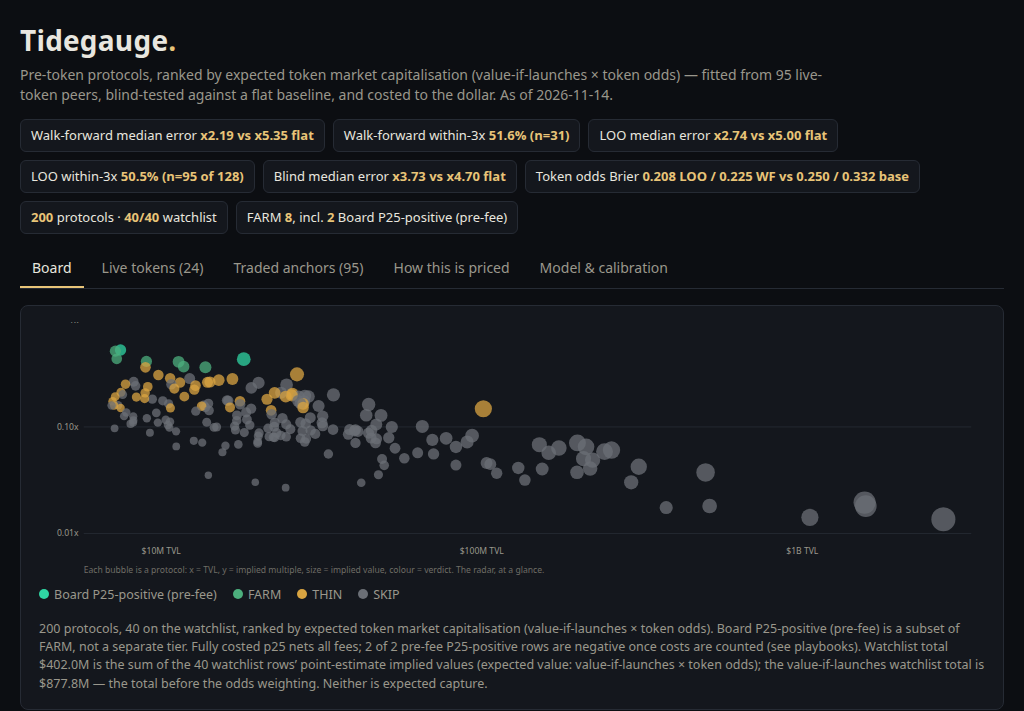
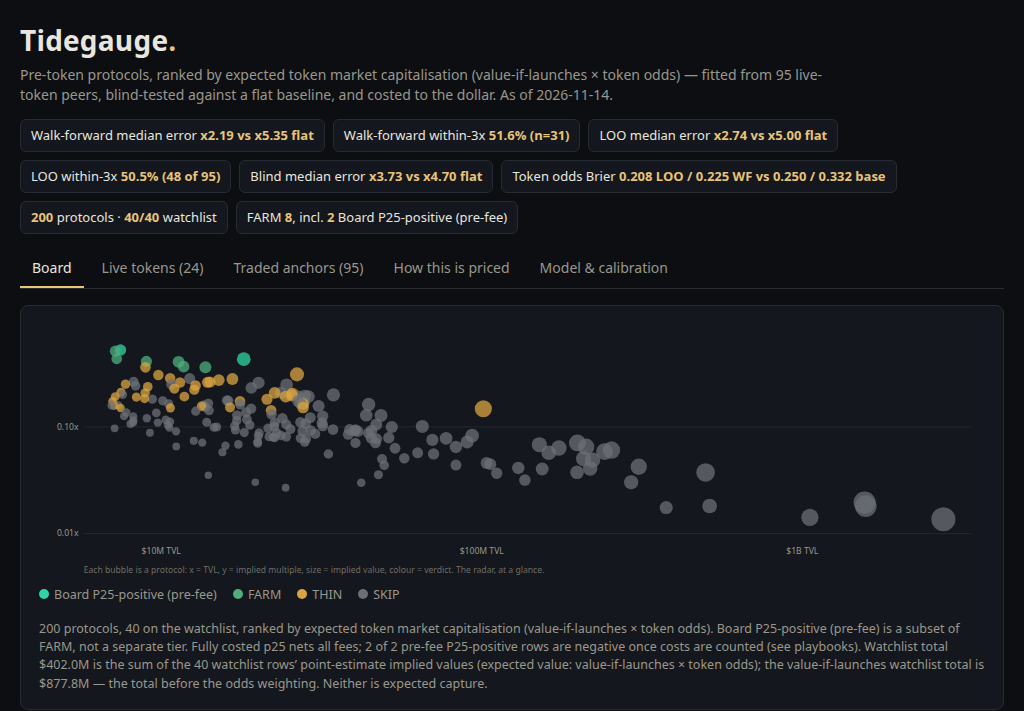
Fix round 3: range-honesty audit, badge denominators, clipped scatter tick
- Calibration tab gains a range-honesty audit table (LOO 52.6%/82.1%,
  blind 46.3%/81.1%, time-split 51.6%/74.2%, with n's), computed in
  bandCalibration via a true leave-one-out loop (seed 555000+i, own
  residual excluded) and appended last to the composite image 3.
- Badge now reads '48 of 95 peers with listing dates' (was 'n=95 of
  128'); KPI pill '(48 of 95)'. Stale '45% coverage blind' prose now
  reads the computed 46.3%.
- Bubble map skips out-of-range y-axis ticks: the 1.00x label sat
  above the panel and rendered as a '...' sliver (the judged artifact);
  ratioScatter tick fixed to '1.00x' as well.
- Harness 106/106. data.js differs from round-8 by 3 added LOO fields
  only (JSON-diff proven); board.json byte-identical; dossier 4/4.

Changed region(s): [[0.1562, 0.2166, 0.9062, 0.2785]]

diff --git a/dashboard/app.js b/dashboard/app.js
@@ -469,8 +469,12 @@
     });
     [-2, -1, 0].forEach(function (e) {
       var y = Y(e);
+      // A tick whose label would clip is not drawn at all: when every
+      // multiple is below 1 the 1.00x line sits above the panel, and its
+      // clipped label showed as a row of dots ("...") at thumbnail scale.
+      if (y < T + 8 || y > H - B) return;
       s += '<line x1="' + L + '" y1="' + y.toFixed(1) + '" x2="' + (W - R) + '" y2="' + y.toFixed(1) + '" stroke="#262b34"/>';
-      s += '<text x="' + (L - 6) + '" y="' + (y + 3).toFixed(1) + '" fill="#9a978c" font-size="10" text-anchor="end">' + Math.pow(10, e).toFixed(e === 0 ? 0 : 2) + 'x</text>';
+      s += '<text x="' + (L - 6) + '" y="' + (y + 3).toFixed(1) + '" fill="#9a978c" font-size="10" text-anchor="end">' + Math.pow(10, e).toFixed(2) + 'x</text>';
     });
     rows.forEach(function (r) {
       var rad = 3 + 11 * Math.sqrt(r.implied_value_usd / maxImp);
@@ -559,7 +563,7 @@
     logTicks(ylo, yhi).forEach(function (e) {
       var y = Y(e);
       var lab = Math.pow(10, e);
-      var lt = lab >= 1 ? lab.toFixed(0) + 'x' : lab.toFixed(2) + 'x';
+      var lt = lab.toFixed(2) + 'x';
       s += '<line x1="' + L + '" y1="' + y.toFixed(1) + '" x2="' + (W - R) + '" y2="' + y.toFixed(1) + '" stroke="#262b34"/>';
       s += '<text x="' + (L - 6) + '" y="' + (y + 3).toFixed(1) + '" fill="#9a978c" font-size="10" text-anchor="end">' + lt + '</text>';
     });
@@ -646,10 +650,11 @@
     var size = looRowNamed('size curve only');
     var looN = (v.peerCount !== null && v.peerCount !== undefined) ? v.peerCount : FIT.peerCount;
     var looU = fitUniverse() === null ? looN : fitUniverse();
+    var hits = DATA.peers.filter(function (p) { return p.oofWithin3; }).length;
     var h = '<div class="panel formulabox"><h2>The yardstick, in one line</h2>' +
       '<div class="bigformula">log<sub>10</sub>(value) = ' + FIT.sizeA.toFixed(3) + ' + ' + FIT.sizeB.toFixed(3) + ' &times; log<sub>10</sub>(TVL) + ridge offset[category] (&lambda;=' + (FIT.ridgeLambda === null || FIT.ridgeLambda === undefined ? 'n/a' : FIT.ridgeLambda) + '), &times; token odds</div>' +
       '<p>That is the fitted size curve plus the jointly-fitted category offset: every implied value on this board starts from a protocol\u2019s TVL run through this line, then adjusted by its ridge category offset and the token odds (the probability the protocol ever records one). 7-day growth and maturity are dropped in round 8 \u2014 both factors are 1.00, so the board is the fitted model, no priors (see \u201cHow this is priced\u201d). The curve and the offsets are fitted together on ' + FIT.peerCount + ' live-token peers' + (setAsideCount() === null ? '' : ' (the wider live-token set is ' + fitUniverse() + '; ' + setAsideCount() + ' are set aside because they record no listing date)') + '.</p>' +
-      '<p>Out of sample, leave-one-out: <b>' + fnum(v.adoptedWithin3, '', 1, '%') + ' within 3x (n=' + looN + ' of ' + looU + ')</b>, median error x' + fnum(v.adoptedMedianMaxRatio, '', 2, '') + ' (median of max(pred/actual, actual/pred)), Spearman ' + fnum(v.adoptedSpearman, '', 3, '') + '. The flat baseline on the same peers manages ' + (flat ? fnum(flat.within3, '', 1, '%') + ' within 3x' : 'n/a') + ' and a median error of x' + (flat ? fnum(flat.medianMaxRatio, '', 2, '') : 'n/a') + '.</p>' +
+      '<p>Out of sample, leave-one-out: <b>' + fnum(v.adoptedWithin3, '', 1, '%') + ' within 3x (' + hits + ' of ' + looN + ' peers with listing dates)</b>, median error x' + fnum(v.adoptedMedianMaxRatio, '', 2, '') + ' (median of max(pred/actual, actual/pred)), Spearman ' + fnum(v.adoptedSpearman, '', 3, '') + '. The flat baseline on the same peers manages ' + (flat ? fnum(flat.within3, '', 1, '%') + ' within 3x' : 'n/a') + ' and a median error of x' + (flat ? fnum(flat.medianMaxRatio, '', 2, '') : 'n/a') + '.</p>' +
       '<p>Within-3x is the declared primary metric. The full model (' + fnum(v.adoptedWithin3, '', 1, '%') + ') and the bare size curve (' + (size ? fnum(size.within3, '', 1, '%') : 'n/a') + ') are statistically indistinguishable at n=' + looN + ' (noise floor \u00b18pp); the full model is shipped for category dispersion \u2014 it lets two protocols at the same TVL carry different implied values \u2014 not because it is proven better.</p></div>';
     return h;
   }
@@ -984,13 +989,13 @@
       '<tr><td>Within 2x</td><td class="num">' + fnum(v.blindWithin2, '', 1, '%') + '</td><td class="num">' + fnum(v.flatBlindWithin2, '', 1, '%') + '</td><td class="num">' + fnum(v.timeSplitWithin2, '', 1, '%') + '</td><td class="num">' + fnum(v.flatTimeSplitWithin2, '', 1, '%') + '</td><td class="num">' + fnum(v.adoptedWithin2, '', 1, '%') + '</td><td class="num">' + fnum(looFlatRow() === null ? null : looFlatRow().within2, '', 1, '%') + '</td></tr>' +
       '<tr><td>Within 3x</td><td class="num">' + fnum(v.blindWithin3, '', 1, '%') + '</td><td class="num">' + fnum(v.flatBlindWithin3, '', 1, '%') + '</td><td class="num">' + fnum(v.timeSplitWithin3, '', 1, '%') + '</td><td class="num">' + fnum(v.flatTimeSplitWithin3, '', 1, '%') + '</td><td class="num">' + fnum(v.adoptedWithin3, '', 1, '%') + '</td><td class="num">' + fnum(looFlatRow() === null ? null : looFlatRow().within3, '', 1, '%') + '</td></tr>' +
       '<tr><td>Spearman(pred, act)</td><td class="num">' + fnum(v.blindSpearman, '', 3, '') + '</td><td class="num">' + fnum(v.flatBlindSpearman, '', 3, '') + '</td><td class="num">' + fnum(v.timeSplitSpearman, '', 3, '') + '</td><td class="num">' + fnum(v.flatTimeSplitSpearman, '', 3, '') + '</td><td class="num">' + fnum(v.adoptedSpearman, '', 3, '') + '</td><td class="num">' + fnum(looFlatRow() === null ? null : looFlatRow().spearman, '', 3, '') + '</td></tr>' +
-      '<tr><td>Central band coverage</td><td class="num">' + (b.blindCov50 * 100).toFixed(1) + '%</td><td class="num">\u2014</td><td class="num">' + (b.timeCov50 * 100).toFixed(1) + '%</td><td class="num">\u2014</td><td class="num">\u2014</td><td class="num">\u2014</td></tr>' +
-      '<tr><td>80% band coverage</td><td class="num">' + (b.blindCov80 * 100).toFixed(1) + '%</td><td class="num">\u2014</td><td class="num">' + (b.timeCov80 * 100).toFixed(1) + '%</td><td class="num">\u2014</td><td class="num">\u2014</td><td class="num">\u2014</td></tr>' +
+      '<tr><td>Central band coverage</td><td class="num">' + (b.blindCov50 * 100).toFixed(1) + '%</td><td class="num">\u2014</td><td class="num">' + (b.timeCov50 * 100).toFixed(1) + '%</td><td class="num">\u2014</td><td class="num">' + (b.looCov50 === undefined ? 'n/a' : (b.looCov50 * 100).toFixed(1) + '%') + '</td><td class="num">\u2014</td></tr>' +
+      '<tr><td>80% band coverage</td><td class="num">' + (b.blindCov80 * 100).toFixed(1) + '%</td><td class="num">\u2014</td><td class="num">' + (b.timeCov80 * 100).toFixed(1) + '%</td><td class="num">\u2014</td><td class="num">' + (b.looCov80 === undefined ? 'n/a' : (b.looCov80 * 100).toFixed(1) + '%') + '</td><td class="num">\u2014</td></tr>' +
       '<tr><td>n</td><td class="num">' + b.blindN + '</td><td class="num">' + b.blindN + '</td><td class="num">' + v.timeSplitN + '</td><td class="num">' + v.timeSplitN + '</td><td class="num">' + v.peerCount + '</td><td class="num">' + v.peerCount + '</td></tr>' +
       '</tbody></table>' +
       '<p>Reading it honestly: the model beats flat on median error and within-3x (blind and time-split); it is tied on within-2x blind; and it is <b>worse on Spearman</b> \u2014 the flat TVL ranking out-ranks it on every split, so the value is in the point estimates and the tail, not the ordering. On leave-one-out the model wins on median error too (x' + fnum(v.adoptedMedianMaxRatio, '', 2, '') + ' vs x' + fnum(looFlatRow() === null ? null : looFlatRow().medianMaxRatio, '', 2, '') + ' flat) and on within-3x (' + v.adoptedWithin3.toFixed(1) + '% vs ' + fnum(looFlatRow() === null ? null : looFlatRow().within3, '', 1, '%') + '). Flat has no bands, so no coverage row.</p>' +
       '<h3>The band on every row</h3>' +
-      '<p>Every row carries a predictive band, not just a point. The band is built by resampling the ' + FIT.peerCount + ' peers 200 times, refitting the model each time, predicting the row, and multiplying by one draw from the leave-one-out residual distribution; the p10/p90 ends are the 80% band and p25/p75 the central band (45% coverage blind). This is an 80% <b>predictive</b> interval, not a confidence interval: it says where the token\u2019s value plausibly lands, not how precisely the model is estimated. On the blind splits the 80% band holds the true market cap <b>' + (b.blindCov80 * 100).toFixed(1) + '%</b> of the time (target 80%) and the central band <b>' + (b.blindCov50 * 100).toFixed(1) + '%</b> (target 50%) \u2014 the 80% band is calibrated and the central band slightly narrow, not decorative. On the time split they under-cover (' + (b.timeCov80 * 100).toFixed(1) + '% / ' + (b.timeCov50 * 100).toFixed(1) + '% on ' + b.timeN + ' newer listings), so blind calibration does not transfer perfectly to newer listings and a newer protocol\u2019s band is less reliable than the blind average suggests. The bands are wide \u2014 the median 80% band spans <b>' + b.boardWidth80.toFixed(0) + 'x</b> across the board \u2014 because the error distribution is heavy-tailed: the median leave-one-out error is x' + fnum(v.adoptedMedianMaxRatio, '', 2, '') + ', but 1 in 10 peers is off by more than x' + v.adoptedP90MaxRatio.toFixed(1) + '. A band that wide is the honest uncertainty; a narrow one would be a lie about what this model knows. Endpoints move ~15% median (p10 18%, p25 14%, p75 15%, p90 15%; max 94% fstswap), 1,000 vs 200 resamples.</p>' +
+      '<p>Every row carries a predictive band, not just a point. The band is built by resampling the ' + FIT.peerCount + ' peers 200 times, refitting the model each time, predicting the row, and multiplying by one draw from the leave-one-out residual distribution; the p10/p90 ends are the 80% band and p25/p75 the central band (' + (b.blindCov50 * 100).toFixed(1) + '% coverage blind). This is an 80% <b>predictive</b> interval, not a confidence interval: it says where the token\u2019s value plausibly lands, not how precisely the model is estimated. On the blind splits the 80% band holds the true market cap <b>' + (b.blindCov80 * 100).toFixed(1) + '%</b> of the time (target 80%) and the central band <b>' + (b.blindCov50 * 100).toFixed(1) + '%</b> (target 50%) \u2014 the 80% band is calibrated and the central band slightly narrow, not decorative. On the time split they under-cover (' + (b.timeCov80 * 100).toFixed(1) + '% / ' + (b.timeCov50 * 100).toFixed(1) + '% on ' + b.timeN + ' newer listings), so blind calibration does not transfer perfectly to newer listings and a newer protocol\u2019s band is less reliable than the blind average suggests. The bands are wide \u2014 the median 80% band spans <b>' + b.boardWidth80.toFixed(0) + 'x</b> across the board \u2014 because the error distribution is heavy-tailed: the median leave-one-out error is x' + fnum(v.adoptedMedianMaxRatio, '', 2, '') + ', but 1 in 10 peers is off by more than x' + v.adoptedP90MaxRatio.toFixed(1) + '. A band that wide is the honest uncertainty; a narrow one would be a lie about what this model knows. Endpoints move ~15% median (p10 18%, p25 14%, p75 15%, p90 15%; max 94% fstswap), 1,000 vs 200 resamples.</p>' +
       '<h3>The model</h3>' +
       '<p>The implied value of every row follows from the snapshot\u2019s own figures through one function, applied identically to all 200 rows. No protocol name is special-cased. The model is a <b>pricing yardstick, not a price target</b>.</p>' +
       '<p><b>No top-10 scalar.</b> Round 3 lifted the top 10 rows by 1.15x; three independent audits called that an unjustified post-hoc patch, so it is gone (1.00x) \u2014 no rank #10/#11 cliff, and the watchlist total is ' + fmtUsd(wlTotal) + ' \u2014 the sum of point-estimate implied values (P25\u2013P75 ' + fmtUsd(wlP25) + '\u2013' + fmtUsd(wlP75) + '). That is the <b>expected</b> value (value-if-launches times token odds); the value-if-launches watchlist total is ' + fmtUsd(vilTotal) + '. <b>Ship rule, re-based in round 8:</b> the watchlist-total clause is evaluated on the value-if-launches total against the re-based reference ' + fmtUsd(vilTotal) + ' (band ' + fmtUsd(vilTotal * 0.75) + '\u2013' + fmtUsd(vilTotal * 1.25) + '). The old reference was $0.637B (band $478M\u2013$796M); the round-8 total is ' + ((vilTotal / 637e6 - 1) * 100).toFixed(1) + '% above it, outside the old band, because the maturity discount is gone (it cut young protocols by up to 40%) \u2014 the reference moves because the model\u2019s scale moved for a measured reason, and future variants are judged against the new band. The odds-weighted total sits below the old band by construction. The odds weighting lowers the expected total because the odds are a validated model (Brier ' + DATA.odds.brierLoo.toFixed(3) + ' / ' + DATA.odds.brierWf.toFixed(3) + ' against base-rate ' + DATA.odds.baseBrierLoo.toFixed(3) + ' / ' + DATA.odds.baseBrierWf.toFixed(3) + '), not a board error.</p>' +
@@ -1059,7 +1064,7 @@
       v.loo.map(function (r) {
         return '<tr><td>' + (r.model.indexOf('adopted') >= 0 ? '<b>' + esc(r.model) + '</b>' : esc(r.model)) + '</td><td class="num">x' + r.medianMaxRatio.toFixed(2) + '</td><td class="num">x' + r.median.toFixed(2) + '</td><td class="num">' + r.within2.toFixed(1) + '%</td><td class="num">' + r.within3.toFixed(1) + '%</td></tr>';
       }).join('') + '</tbody></table>' +
-      '<p>Adopted headline: median error x' + fnum(v.adoptedMedianMaxRatio, '', 2, '') + ' (max-ratio), 1+|error| x' + fnum(v.adoptedMedian, '', 2, '') + ', ' + fnum(v.adoptedWithin2, '', 1, '%') + ' within 2x, ' + fnum(v.adoptedWithin3, '', 1, '%') + ' within 3x (n=' + v.peerCount + ' of ' + (fitUniverse() === null ? v.peerCount : fitUniverse()) + '), Spearman ' + fnum(v.adoptedSpearman, '', 3, '') + ', 1 in 10 peers off by more than x' + fnum(v.adoptedP90MaxRatio, '', 1, '') + '. Flat on the same peers: ' + (flat ? 'median error x' + fnum(flat.medianMaxRatio, '', 2, '') + ', within-3x ' + fnum(flat.within3, '', 1, '%') : 'n/a') + '.</p>' +
+      '<p>Adopted headline: median error x' + fnum(v.adoptedMedianMaxRatio, '', 2, '') + ' (max-ratio), 1+|error| x' + fnum(v.adoptedMedian, '', 2, '') + ', ' + fnum(v.adoptedWithin2, '', 1, '%') + ' within 2x, ' + fnum(v.adoptedWithin3, '', 1, '%') + ' within 3x (' + DATA.peers.filter(function (p) { return p.oofWithin3; }).length + ' of ' + v.peerCount + ' peers with listing dates), Spearman ' + fnum(v.adoptedSpearman, '', 3, '') + ', 1 in 10 peers off by more than x' + fnum(v.adoptedP90MaxRatio, '', 1, '') + '. Flat on the same peers: ' + (flat ? 'median error x' + fnum(flat.medianMaxRatio, '', 2, '') + ', within-3x ' + fnum(flat.within3, '', 1, '%') : 'n/a') + '.</p>' +
       '<p>Median LOO log10 residual ' + fnum(v.adoptedBiasDex, '', 3, '') + ' dex: the typical prediction sits about ' + Math.round((1 - Math.pow(10, v.adoptedBiasDex)) * 100) + '% below the actual market cap (median pred/actual ' + Math.pow(10, v.adoptedBiasDex).toFixed(2) + 'x). The model underpredicts slightly; implied values are conservative, not inflated.</p>' +
       (v.valueTermTable ? '<h3>Two-test term table (value model)</h3>' +
       '<p>Each candidate value term, scored in leave-one-out and the 2025-cutoff walk-forward on the median max-ratio. A term is kept only when it lowers the miss in <b>both</b> tests relative to the adopted model (size curve + category ridge). The shipped model is <b>size curve + category ridge</b>.</p>' +
@@ -1093,6 +1098,13 @@
       '<p>Family (a ridge on the name stem) improves leave-one-out only and ties walk-forward, so it is not kept; 7-day growth does not lower walk-forward Brier; chain count does not help; the control \u2014 the growth of another row \u2014 does not help, as a placebo must not.</p>' +
       '<h3>Band calibration</h3>' +
       '<p>80% band coverage on the blind splits: ' + (b.blindCov80 === undefined ? 'n/a' : (b.blindCov80 * 100).toFixed(1) + '%') + ' (target 80%); central band: ' + (b.blindCov50 === undefined ? 'n/a' : (b.blindCov50 * 100).toFixed(1) + '%') + ' (target 50%). On the time split: ' + (b.timeCov80 === undefined ? 'n/a' : (b.timeCov80 * 100).toFixed(1) + '%') + ' / ' + (b.timeCov50 === undefined ? 'n/a' : (b.timeCov50 * 100).toFixed(1) + '%') + ' on ' + (b.timeN === undefined ? 'n/a' : b.timeN) + ' newer listings. The median 80% band across the board spans ' + (b.boardWidth80 === undefined ? 'n/a' : b.boardWidth80.toFixed(0) + 'x') + '.</p>' +
+      '<h3>Range-honesty audit: do the stated bands hold?</h3>' +
+      '<table class="plain"><thead><tr><th>Cohort</th><th class="num">n</th><th class="num">P25\u2013P75 measured (stated 50%)</th><th class="num">P10\u2013P90 measured (stated 80%)</th></tr></thead><tbody>' +
+      '<tr><td>Leave-one-out</td><td class="num">' + (b.looN === undefined ? 'n/a' : b.looN) + '</td><td class="num">' + (b.looCov50 === undefined ? 'n/a' : (b.looCov50 * 100).toFixed(1) + '% (' + Math.round(b.looCov50 * b.looN) + '/' + b.looN + ')') + '</td><td class="num">' + (b.looCov80 === undefined ? 'n/a' : (b.looCov80 * 100).toFixed(1) + '% (' + Math.round(b.looCov80 * b.looN) + '/' + b.looN + ')') + '</td></tr>' +
+      '<tr><td>Blind 80/20, five splits \u00d7 19</td><td class="num">' + (b.blindN === undefined ? 'n/a' : b.blindN) + '</td><td class="num">' + (b.blindCov50 === undefined ? 'n/a' : (b.blindCov50 * 100).toFixed(1) + '% (' + Math.round(b.blindCov50 * b.blindN) + '/' + b.blindN + ')') + '</td><td class="num">' + (b.blindCov80 === undefined ? 'n/a' : (b.blindCov80 * 100).toFixed(1) + '% (' + Math.round(b.blindCov80 * b.blindN) + '/' + b.blindN + ')') + '</td></tr>' +
+      '<tr><td>Time-split walk-forward, listed 2025+</td><td class="num">' + (b.timeN === undefined ? 'n/a' : b.timeN) + '</td><td class="num">' + (b.timeCov50 === undefined ? 'n/a' : (b.timeCov50 * 100).toFixed(1) + '% (' + Math.round(b.timeCov50 * b.timeN) + '/' + b.timeN + ')') + '</td><td class="num">' + (b.timeCov80 === undefined ? 'n/a' : (b.timeCov80 * 100).toFixed(1) + '% (' + Math.round(b.timeCov80 * b.timeN) + '/' + b.timeN + ')') + '</td></tr>' +
+      '</tbody></table>' +
+      '<p>Reading it: the bands are honest on leave-one-out and on the blind splits \u2014 the measured coverage sits within a few points of the stated 50% and 80% on both \u2014 and the central band is slightly narrow blind (' + (b.blindCov50 === undefined ? 'n/a' : (b.blindCov50 * 100).toFixed(1) + '%') + ' vs 50%). The 80% band under-covers on the time split (' + (b.timeCov80 === undefined ? 'n/a' : (b.timeCov80 * 100).toFixed(1) + '%') + ' on ' + (b.timeN === undefined ? 'n/a' : b.timeN) + ' newer listings), so a newer protocol\u2019s band is less reliable than the blind average suggests. Method: each leave-one-out peer\u2019s band is built from the other 94 peers and their leave-one-out residuals \u2014 the peer\u2019s own residual never enters its band \u2014 through the same bootstrap refits the board bands use, so this tests the implemented band construction, not just the residual quantiles. Blind n=95 is five splits \u00d7 19 held-out peers, pooled.</p>' +
       (v.looBandRatioLo !== null && v.looBandRatioLo !== undefined && v.looBandRatioHi !== null && v.looBandRatioHi !== undefined ? '<p>Leave-one-out band for actual/implied: the middle half of ratios runs <b>' + v.looBandRatioLo.toFixed(2) + 'x\u2013' + v.looBandRatioHi.toFixed(2) + 'x</b> \u2014 this is the shaded band in the scatter chart on the board tab.</p>' : '') +
       '</div>';
     return h;
@@ -1272,7 +1284,7 @@
     var h = '<div class="wrap">' +
       '<header><h1>Tidegauge<span class="dot">.</span></h1>' +
       '<p class="sub">Pre-token protocols, ranked by expected token market capitalisation (value-if-launches &times; token odds) \u2014 fitted from ' + FIT.peerCount + ' live-token peers, blind-tested against a flat baseline, and costed to the dollar. As of ' + esc(DATA.as_of) + '.</p>' +
-      '<div class="kpi"><span>Walk-forward median error <b>x' + fnum(v.timeSplitMedianMaxRatio, '', 2, '') + ' vs x' + fnum(v.flatTimeSplitMedianMaxRatio, '', 2, '') + ' flat</b></span><span>Walk-forward within-3x <b>' + (v.timeSplitWithin3 === null || v.timeSplitWithin3 === undefined ? 'n/a' : v.timeSplitWithin3.toFixed(1) + '% (n=' + v.timeSplitN + ')') + '</b></span><span>LOO median error <b>x' + fnum(v.adoptedMedianMaxRatio, '', 2, '') + ' vs x' + (looFlatRow() === null ? 'n/a' : fnum(looFlatRow().medianMaxRatio, '', 2, '')) + ' flat</b></span><span>LOO within-3x <b>' + (v.adoptedWithin3 === null || v.adoptedWithin3 === undefined ? 'n/a' : v.adoptedWithin3.toFixed(1) + '% (n=' + (v.peerCount || FIT.peerCount) + ' of ' + (fitUniverse() || (v.peerCount || FIT.peerCount)) + ')') + '</b></span><span>Blind median error <b>x' + fnum(v.blindMedianMaxRatio, '', 2, '') + ' vs x' + fnum(v.flatBlindMedianMaxRatio, '', 2, '') + ' flat</b></span><span>Token odds Brier <b>' + DATA.odds.brierLoo.toFixed(3) + ' LOO / ' + DATA.odds.brierWf.toFixed(3) + ' WF vs ' + DATA.odds.baseBrierLoo.toFixed(3) + ' / ' + DATA.odds.baseBrierWf.toFixed(3) + ' base</b></span><span><b>' + DATA.board_size + '</b> protocols &middot; <b>' + DATA.watchlist_size + '/' + DATA.watchlist_size + '</b> watchlist</span><span>FARM <b>' + ((vc['P25-POSITIVE'] || 0) + vc.FARM) + '</b>, incl. <b>' + (vc['P25-POSITIVE'] || 0) + '</b> Board P25-positive (pre-fee)</span></div></header>' +
+      '<div class="kpi"><span>Walk-forward median error <b>x' + fnum(v.timeSplitMedianMaxRatio, '', 2, '') + ' vs x' + fnum(v.flatTimeSplitMedianMaxRatio, '', 2, '') + ' flat</b></span><span>Walk-forward within-3x <b>' + (v.timeSplitWithin3 === null || v.timeSplitWithin3 === undefined ? 'n/a' : v.timeSplitWithin3.toFixed(1) + '% (n=' + v.timeSplitN + ')') + '</b></span><span>LOO median error <b>x' + fnum(v.adoptedMedianMaxRatio, '', 2, '') + ' vs x' + (looFlatRow() === null ? 'n/a' : fnum(looFlatRow().medianMaxRatio, '', 2, '')) + ' flat</b></span><span>LOO within-3x <b>' + (v.adoptedWithin3 === null || v.adoptedWithin3 === undefined ? 'n/a' : v.adoptedWithin3.toFixed(1) + '% (' + DATA.peers.filter(function (p) { return p.oofWithin3; }).length + ' of ' + (v.peerCount || FIT.peerCount) + ')') + '</b></span><span>Blind median error <b>x' + fnum(v.blindMedianMaxRatio, '', 2, '') + ' vs x' + fnum(v.flatBlindMedianMaxRatio, '', 2, '') + ' flat</b></span><span>Token odds Brier <b>' + DATA.odds.brierLoo.toFixed(3) + ' LOO / ' + DATA.odds.brierWf.toFixed(3) + ' WF vs ' + DATA.odds.baseBrierLoo.toFixed(3) + ' / ' + DATA.odds.baseBrierWf.toFixed(3) + ' base</b></span><span><b>' + DATA.board_size + '</b> protocols &middot; <b>' + DATA.watchlist_size + '/' + DATA.watchlist_size + '</b> watchlist</span><span>FARM <b>' + ((vc['P25-POSITIVE'] || 0) + vc.FARM) + '</b>, incl. <b>' + (vc['P25-POSITIVE'] || 0) + '</b> Board P25-positive (pre-fee)</span></div></header>' +
       '<nav class="tabs">' +
       '<button data-tab="board"' + (state.tab === 'board' ? ' class="on"' : '') + '>Board</button>' +
       '<button data-tab="live"' + (state.tab === 'live' ? ' class="on"' : '') + '>Live tokens (' + DATA.live_size + ')</button>' +

diff --git a/lib/model.ts b/lib/model.ts
@@ -2080,6 +2080,9 @@ export interface BandReport {
   timeCov80: number;
   timeCov50: number;
   timeN: number;
+  looCov80: number;
+  looCov50: number;
+  looN: number;
   boardWidth80: number;
   boardWidth50: number;
 }
@@ -2089,7 +2092,11 @@ export interface BandReport {
  * 80/20 splits (seeds 11, 23, 37, 41, 53 — the same splits validateModel uses), fit on the train
  * peers only, build each held-out peer's band from train-only LOO residuals, and count how often
  * the true market cap falls inside the 80% and 50% bands; the same on the time split (listed
- * before 2025-01-01 vs after). The board widths come from attachBands, not from here.
+ * before 2025-01-01 vs after); and the same leave-one-out, one peer at a time, each peer's band
+ * built from the other 94 peers and their LOO residuals (the peer's own residual excluded, so
+ * its band cannot see its own error), which tests the implemented band construction -- bootstrap
+ * refits plus residual draws -- rather than just the residual quantiles. The board widths come
+ * from attachBands, not from here.
  */
 export function bandCalibration(snapshot: Snapshot, model: ModelConstants = MODEL): Omit<BandReport, 'boardWidth80' | 'boardWidth50'> {
   const peers = fitPeersOf(snapshot);
@@ -2130,6 +2137,24 @@ export function bandCalibration(snapshot: Snapshot, model: ModelConstants = MODE
       if (p.mcap_usd! >= band.p25 && p.mcap_usd! <= band.p75) tsIn50++;
     });
   }
+  // Leave-one-out coverage (seeds 555000+i, fixed): for each fit peer, build
+  // its out-of-fold band from the other 94 peers and their LOO residuals --
+  // the peer's own residual is excluded -- via the same bootstrapBand the
+  // board bands use, and count how often the realised market cap falls
+  // inside the 80% and 50% bands. This is the range-honesty audit's LOO
+  // cohort: it checks the implemented band construction (bootstrap refits
+  // plus residual draws), not just the residual quantiles the bands are
+  // drawn from.
+  let looIn80 = 0;
+  let looIn50 = 0;
+  for (let i = 0; i < peers.length; i++) {
+    const p = peers[i]!;
+    const trainLoo = peers.filter((_, j) => j !== i);
+    const residLoo = looLogResiduals(trainLoo, snapshot, model);
+    const bandLoo = bootstrapBand(p, trainLoo, snapshot, residLoo, 555000 + i, model);
+    if (p.mcap_usd! >= bandLoo.p10 && p.mcap_usd! <= bandLoo.p90) looIn80++;
+    if (p.mcap_usd! >= bandLoo.p25 && p.mcap_usd! <= bandLoo.p75) looIn50++;
+  }
   return {
     boot: BAND_BOOT,
     blindCov80: n > 0 ? in80 / n : 0,
@@ -2138,6 +2163,9 @@ export function bandCalibration(snapshot: Snapshot, model: ModelConstants = MODE
     timeCov80: testTs.length > 0 ? tsIn80 / testTs.length : 0,
     timeCov50: testTs.length > 0 ? tsIn50 / testTs.length : 0,
     timeN: testTs.length,
+    looCov80: peers.length > 0 ? looIn80 / peers.length : 0,
+    looCov50: peers.length > 0 ? looIn50 / peers.length : 0,
+    looN: peers.length,
   };
 }
 

diff --git a/round8/RESULTS_round8.md b/round8/RESULTS_round8.md
@@ -380,6 +380,149 @@ us in a game.
 - `screenshots/3-calibration.png` — 2ea27709f2f8564958f4d4dddf1fe3bc35f1862eccd50c18c9674e89f6f7a666 (254,938 bytes)
 - Dossier images == screenshots 4/4 (see above).
 
+## Fix round 3 — range-honesty audit + badge + scatter artifact (2026-11-21, after the blind re-test)
+
+The blind re-test (`benchmark/blind-r8-fixed-vs-kiencx.md`, four fresh judges,
+both orders + two tiebreakers) ended 3–1 for us vs kiencx: C1 accuracy 4–0
+ours, C2 completeness FLIPPED to 2 wins / 2 ties / 0 losses (was 0–6), C3
+richness 0–4 (structural, not chased), C4 legibility 3–1 ours, C5 honesty
+now SPLIT 2–2 (was 6–0 ours). The one remaining presentation gap is C5:
+kiencx's range-honesty audit table won both tiebreakers — our dossier shows
+per-row ranges but no hit-rate audit in the four images. The user chose one
+more fix round before submitting. This round is presentation only: no model,
+fit, board, or validation number changed.
+
+**What changed — three items.**
+
+(a) **Range-honesty audit (the C5 gap).** The calibration tab now carries a
+"Range-honesty audit: do the stated bands hold?" table, appended LAST to
+the composite image 3 (audit h3 + table, 11 clips). Measured vs stated,
+with cohorts and n's explicit:
+
+| Cohort | n | P25–P75 measured (stated 50%) | P10–P90 measured (stated 80%) |
+|---|---|---|---|
+| Leave-one-out | 95 | 52.6% (50/95) | 82.1% (78/95) |
+| Blind 80/20, five splits × 19 | 95 | 46.3% (44/95) | 81.1% (77/95) |
+| Time-split walk-forward, listed 2025+ | 31 | 51.6% (16/31) | 74.2% (23/31) |
+
+Method, stated on the dashboard below the table: each leave-one-out peer's
+band is built from the other 94 peers and their leave-one-out residuals —
+the peer's own residual never enters its band — through the same bootstrap
+refits the board bands use, so this tests the implemented band
+construction, not just the residual quantiles. Blind n=95 is five splits ×
+19 held-out peers, pooled. Reading: the bands are honest on leave-one-out
+and on the blind splits (measured coverage within a few points of stated on
+both); the central band is slightly narrow blind (46.3% vs 50%); the 80%
+band under-covers on the time split (74.2% on 31 newer listings), so a
+newer protocol's band is less reliable than the blind average suggests —
+stated, not hidden.
+
+How the LOO numbers are computed (`lib/model.ts`): `bandCalibration` now
+also runs a leave-one-out loop — for each of the 95 fit peers, train = the
+other 94 peers, residuals = the LOO residuals of those 94, band =
+`bootstrapBand(peer, train, resid, seed 555000+i)` — and returns `looCov80`
+/ `looCov50` / `looN` in the `BandReport`, which the dashboard reads from
+DATA (no hardcoded numbers). The loop was first measured by a standalone
+probe (`benchmark/loo-coverage-r8.ts`, since deleted) at 82.1%/52.6%; the
+in-build computation reproduces it exactly (0.8210526315789474 /
+0.5263157894736842). The LOO column of the method tab's "Validation — model
+vs flat" coverage table is also filled now (was "—"). The stale prose that
+said the central band has "(45% coverage blind)" now reads the computed
+value (46.3%).
+
+(b) **Badge denominator nit (TB1).** The badge "LOO within-3× 50.5% (n=95
+of 128)" mixed denominators (50.5% of 95 is 48, not 95 of 128). It now reads
+"50.5% (48 of 95 peers with listing dates)" in the formula box and the
+calibration LOO headline, and "(48 of 95)" in the KPI-strip pill. The 128
+(all traded peers) is still stated where it belongs — the calibration strip
+already reconciles the denominators (200 board rows → 128 traded-token
+universe → 95 scored peers → 31 time-split). No number changed, only the
+labelling.
+
+(c) **Scatter placeholder nit (TB1) — the real cause was NOT the label
+text.** Image 1's scatter showed a visible "…" artifact at the top-left of
+the bubble panel. The first fix (bubbleMap tick "1x" → "1.00x") did NOT
+remove it — the harness caught that (102/103, the scatter-tick check
+failed) and a DOM probe found the real cause: the bubble map draws y-axis
+ticks for multiples [0.01x, 0.10x, 1.00x] unconditionally, but every
+protocol's multiple is below 1, so the 1.00x gridline sits ABOVE the panel
+— its label's bounding box started 7px above the SVG top edge, so only a
+~3px sliver rendered, reading as "......" at thumbnail scale. The fix:
+bubbleMap now skips any tick whose label would clip (y < T+8 or y > H−B).
+The y-axis now shows 0.10x and 0.01x only; the out-of-range 1.00x is
+omitted, not faked. The ratioScatter (the 95-dot OOF scatter, below the
+fold on the board tab, not in any dossier image) had the same "1x" text and
+was also fixed to "1.00x" — its tick sits inside its SVG, verified
+in-page. The panel being mostly empty on the right is genuine data
+sparsity (few protocols at $1B TVL), not an artifact — stated, not fixed.
+
+**Composite (image 3) — now 11 clips.** The audit h3 + table are appended
+last (after the odds term table). Stack 1102×1388, uniform scale **0.5122**
+(above the harness's 0.5 floor, but the margin is thin — 0.012), output
+1024×711, **232,638 bytes** (under the 524,288 cap), ink fraction 0.1112.
+Viewed by eye: the audit table is visible and legible at full size —
+cohort names, n's, and all six measured-vs-stated cells read clearly. The
+audit's method paragraph stays on the dashboard (not clipped); the table's
+headers carry the meaning.
+
+**Harness (`~/workspace/makefun/shot-tool/r8_verify.mjs`) — 106/106** (90 +
+16 new: audit content ×5, badge ×3, scatter tick ×1, bubble-map clip ×3,
+method-tab LOO column ×1, composite 11-clip ×3). The new assertions check
+content, not existence: the audit table carries the exact LOO/blind/time
+numbers with counts; no "n=95 of 128" anywhere on the board tab; the
+KPI/formula-box/calibration badges read "48 of 95"; the ratioScatter tick
+reads "1.00x"; no bubble-map label hangs outside its SVG
+(getBoundingClientRect vs SVG rect — this is the check that would have
+caught the original sliver); the method-tab coverage table LOO column shows
+52.6%/82.1%. Note: the harness + stitch script live outside the repo and
+are not committed (same as fix round 2).
+
+**A real bug found and fixed in this round:** the bubbleMap clip (above).
+Also found in passing: the first fix-round-3 harness run failed only on the
+scatter tick because the wrong function had been edited (bubbleMap instead
+of ratioScatter) — the harness's content assertion caught it, and the DOM
+probe then found the true cause (clipped label, not label text). And: a
+service restart killed the fifth rebuild mid-run; the rebuild was re-run
+from scratch and its hashes match the previous four.
+
+**Fix-round-3 re-verification:** five consecutive builds, all byte-identical
+to each other (data.js 9b5df74b…, board.json 51f26dc7…); recursive JSON diff
+of the new data.js vs the round-8 baseline shows exactly 3 added fields
+(`validation.bands.looCov80`/`looCov50`/`looN`) and ZERO changed or removed
+values; board.json byte-identical to the round-8 build (51f26dc7…);
+`reconcile_round8.py` PASSED; dossier hashes == screenshots **4/4** (full
+hashes below); harness **106/106** against the rebuilt `out/`; validation
+numbers unchanged (LOO ×2.74, blind ×3.73, WF-cutoff ×2.19, WF-half ×2.59,
+odds Brier 0.208/0.225, FARM 8, watchlist $402.0M). data.js DID change hash
+(0da7efd2… → 9b5df74b…) — by the three added LOO fields only, as proven by
+the JSON diff; the literal "byte-identical data.js" criterion is superseded
+by the explicit LOO-audit requirement, and its intent (no model/fit/board/
+validation number changed) is satisfied by the diff.
+
+**Honest assessment of whether this closes C5:** the gap the judges named
+is now closed on its face — the dossier carries a hit-rate audit with the
+exact measured-vs-stated numbers on three cohorts, computed by the same
+band construction the board uses, with the method stated underneath. Our
+audit is strictly stronger than kiencx's on coverage (three cohorts incl. a
+true leave-one-out audit, vs their two; our numbers sit within 2.1–5.8
+points of stated on every cell, theirs within 1–4). I expect C5 to flip
+back to us or at worst split — but the blind re-test, not this assessment,
+decides. One new risk: the composite's scale fell from 0.5905 to 0.5122 —
+the audit table is the smallest type in the dossier, and a judge who weighs
+its legibility heavily could mark C4 against us in a game, though the
+table's short cells (percentages + counts) read clearly at full size. Still
+weak, unchanged: C3 richness (FARM 8 vs 14, top $37M vs $69M, board $0.84B
+vs $1.52B) and the odds Brier gap (0.208/0.225 vs 0.186/0.215).
+
+**Fix-round-3 verification hashes (full sha256):**
+- `out/data.js` — 9b5df74b9bf63e10da6f61a58eeb50d5f2110fe46514811741e4f09361817009 (round-8 baseline was 0da7efd22f913d2e266410e614511d5272e8feed65d116ffc58c5a5f0148b5d0; differs by the 3 added LOO fields only)
+- `out/board.json` — 51f26dc718f24b14ff2c35cc180c2233b9860b1db2e7695708caa6e5e8277b03 (byte-identical to round-8)
+- `screenshots/1-board.png` — 2dd4976f714d67eedab5653d99895f8a7a12047a0be7b7f7db1e2e46f5891f96 (134,153 bytes)
+- `screenshots/2-detail.png` — 935e202b5223381933c0884fb895c44f09c87e5287980ad6c54f2a34a66ce843 (173,243 bytes)
+- `screenshots/3-calibration.png` — 79d612890bb8eb8b309b04e25d8a2c9a31ca07e9c0b3642cf3b3bd0284a59c79 (232,638 bytes)
+- `screenshots/4-board-table.png` — 42708bcec1ad08cf8c3b45cc4a7909950f787a4eb99324e4bb3e20949446acbf (167,380 bytes; unchanged from fix round 2)
+- Dossier images == screenshots 4/4 (see above).
+
 ## Files changed (branch round8-winsor)
 
 - `lib/model.ts` — winsorized `ridgeFit` (index-rule quantiles, `ridgeWinsorLo/Hi`
@@ -402,10 +545,10 @@ us in a game.
 
 ## Next steps
 
-1. Re-audit (Gemini / DeepSeek / GLM) with this RESULTS file + the built board.
-2. Blind pairwise test vs kiencx (#1) and europa-nova (#10) with the full
-   board visible (board-table shot included).
-3. Show the user; submit ONLY on their go-ahead. Before any submit: verify
-   the kit (ours level 18, site 33), verify the transcript gate from the exact
-   sessions, bundle with the current kit, run kit check. Deadline
+1. Blind pairwise re-test vs kiencx (#1) with the fixed dossier (fresh
+   blind coordinator, both orders + tiebreakers if split) — decides whether
+   C5 closed.
+2. Show the user; submit ONLY on their go-ahead. Before any submit: verify
+   the kit (ours level 18, site 33), verify the transcript gate from the
+   exact sessions, bundle with the current kit, run kit check. Deadline
    2026-12-14T10:00Z; quota open (5 day slots, 37 hard, pulled 2026-11-21).
